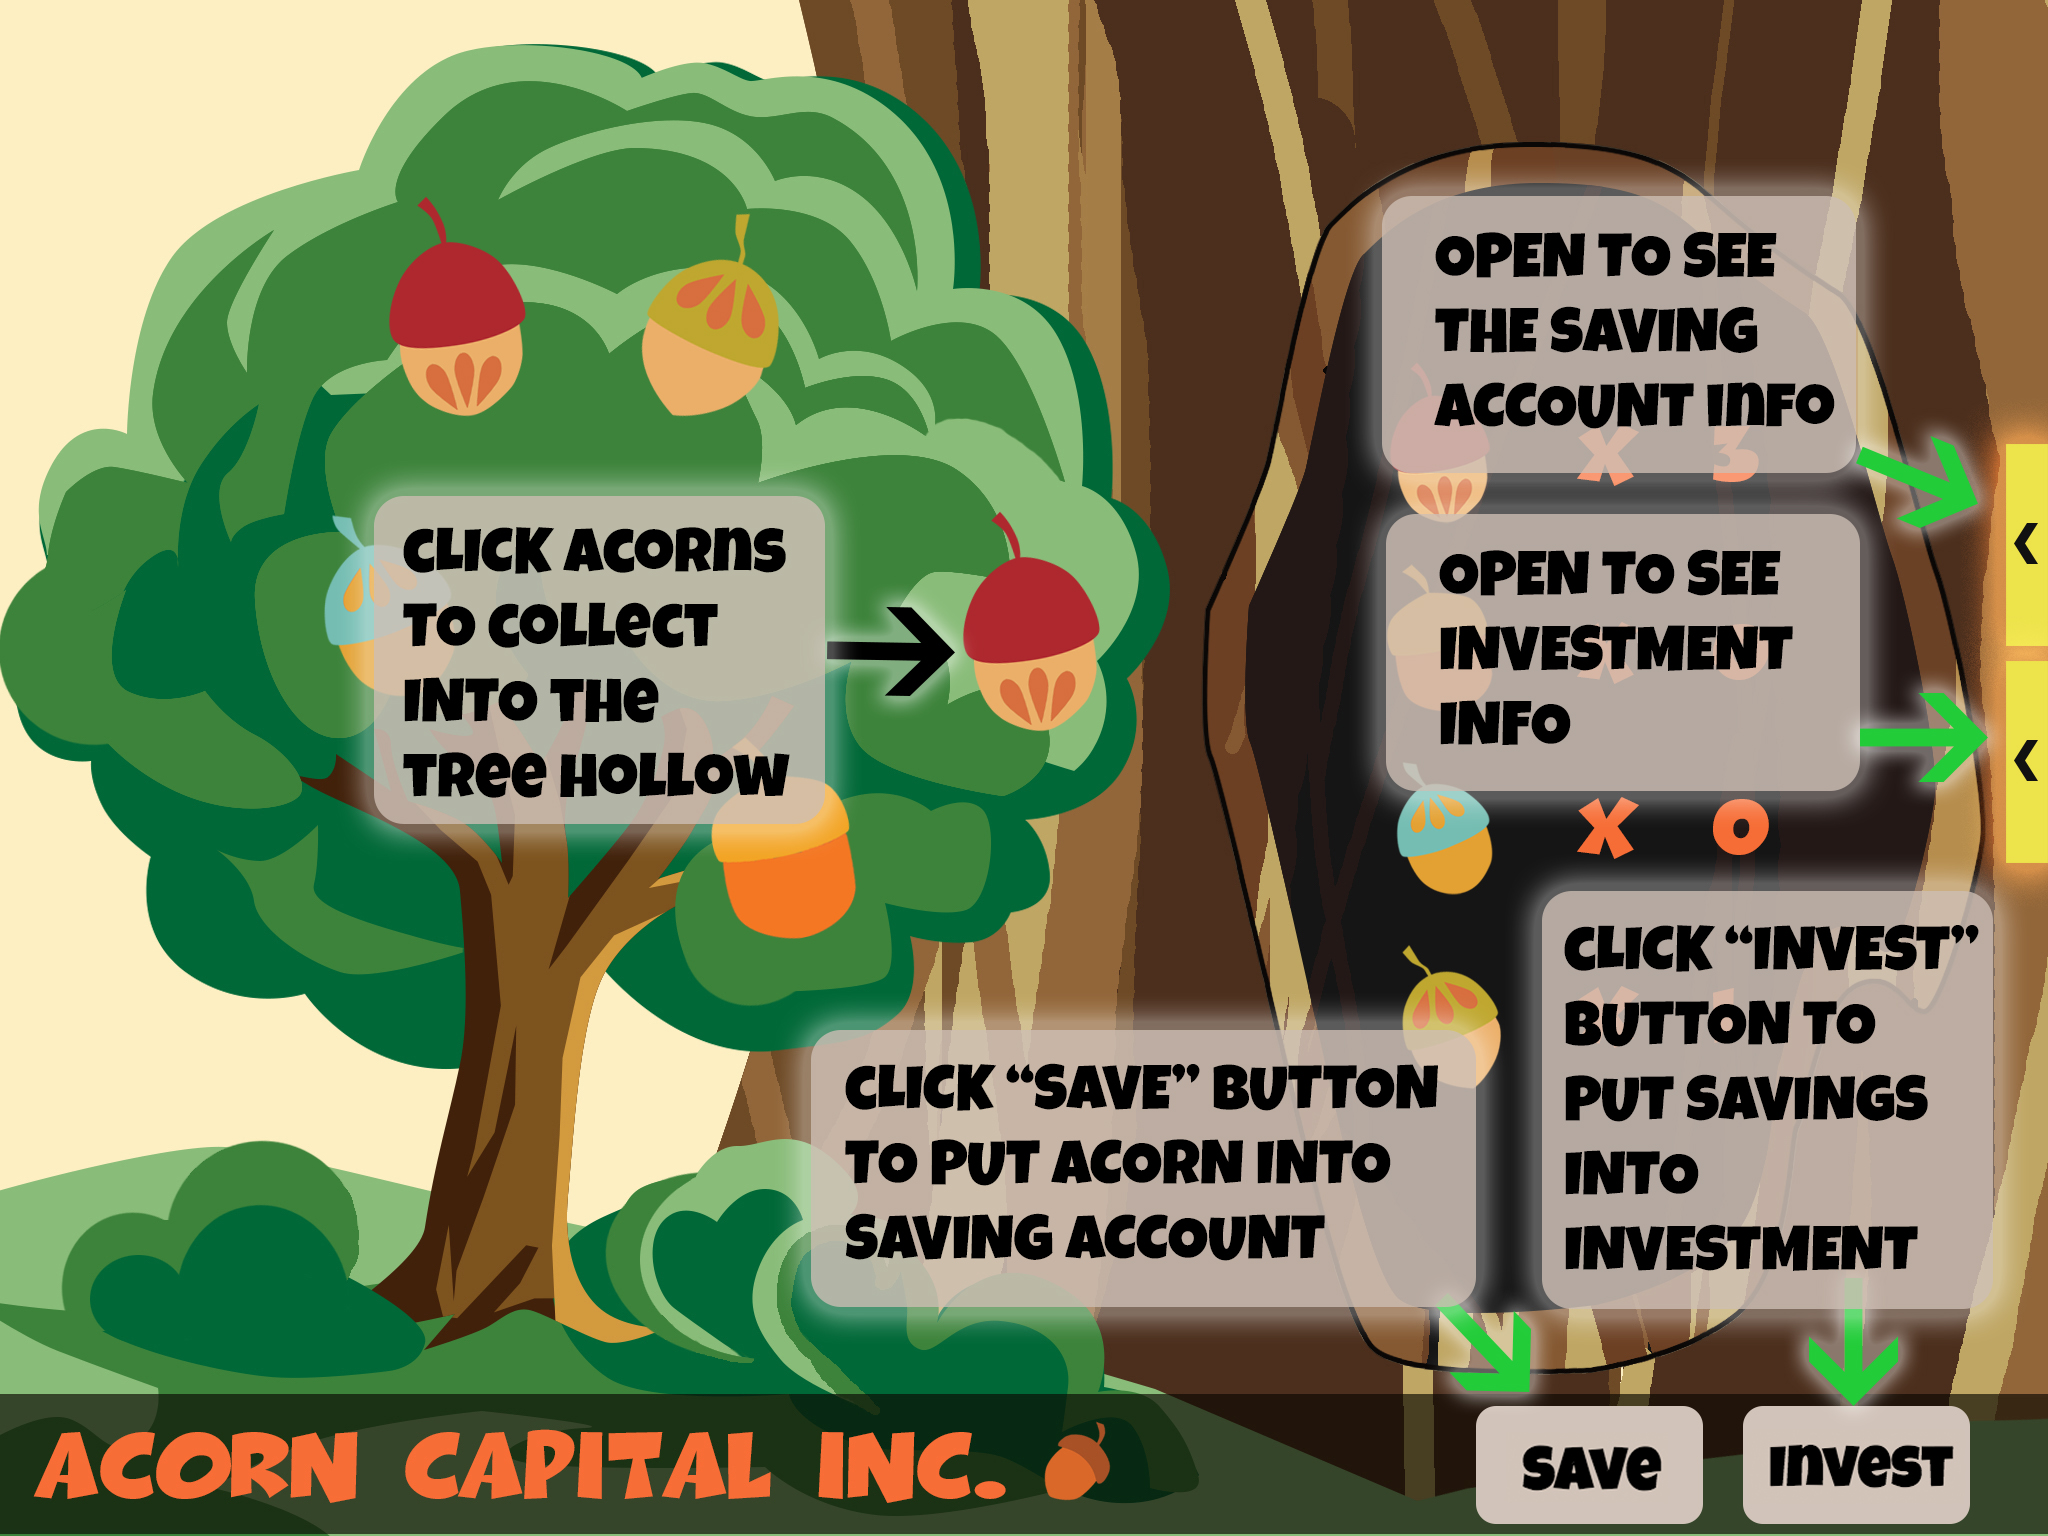
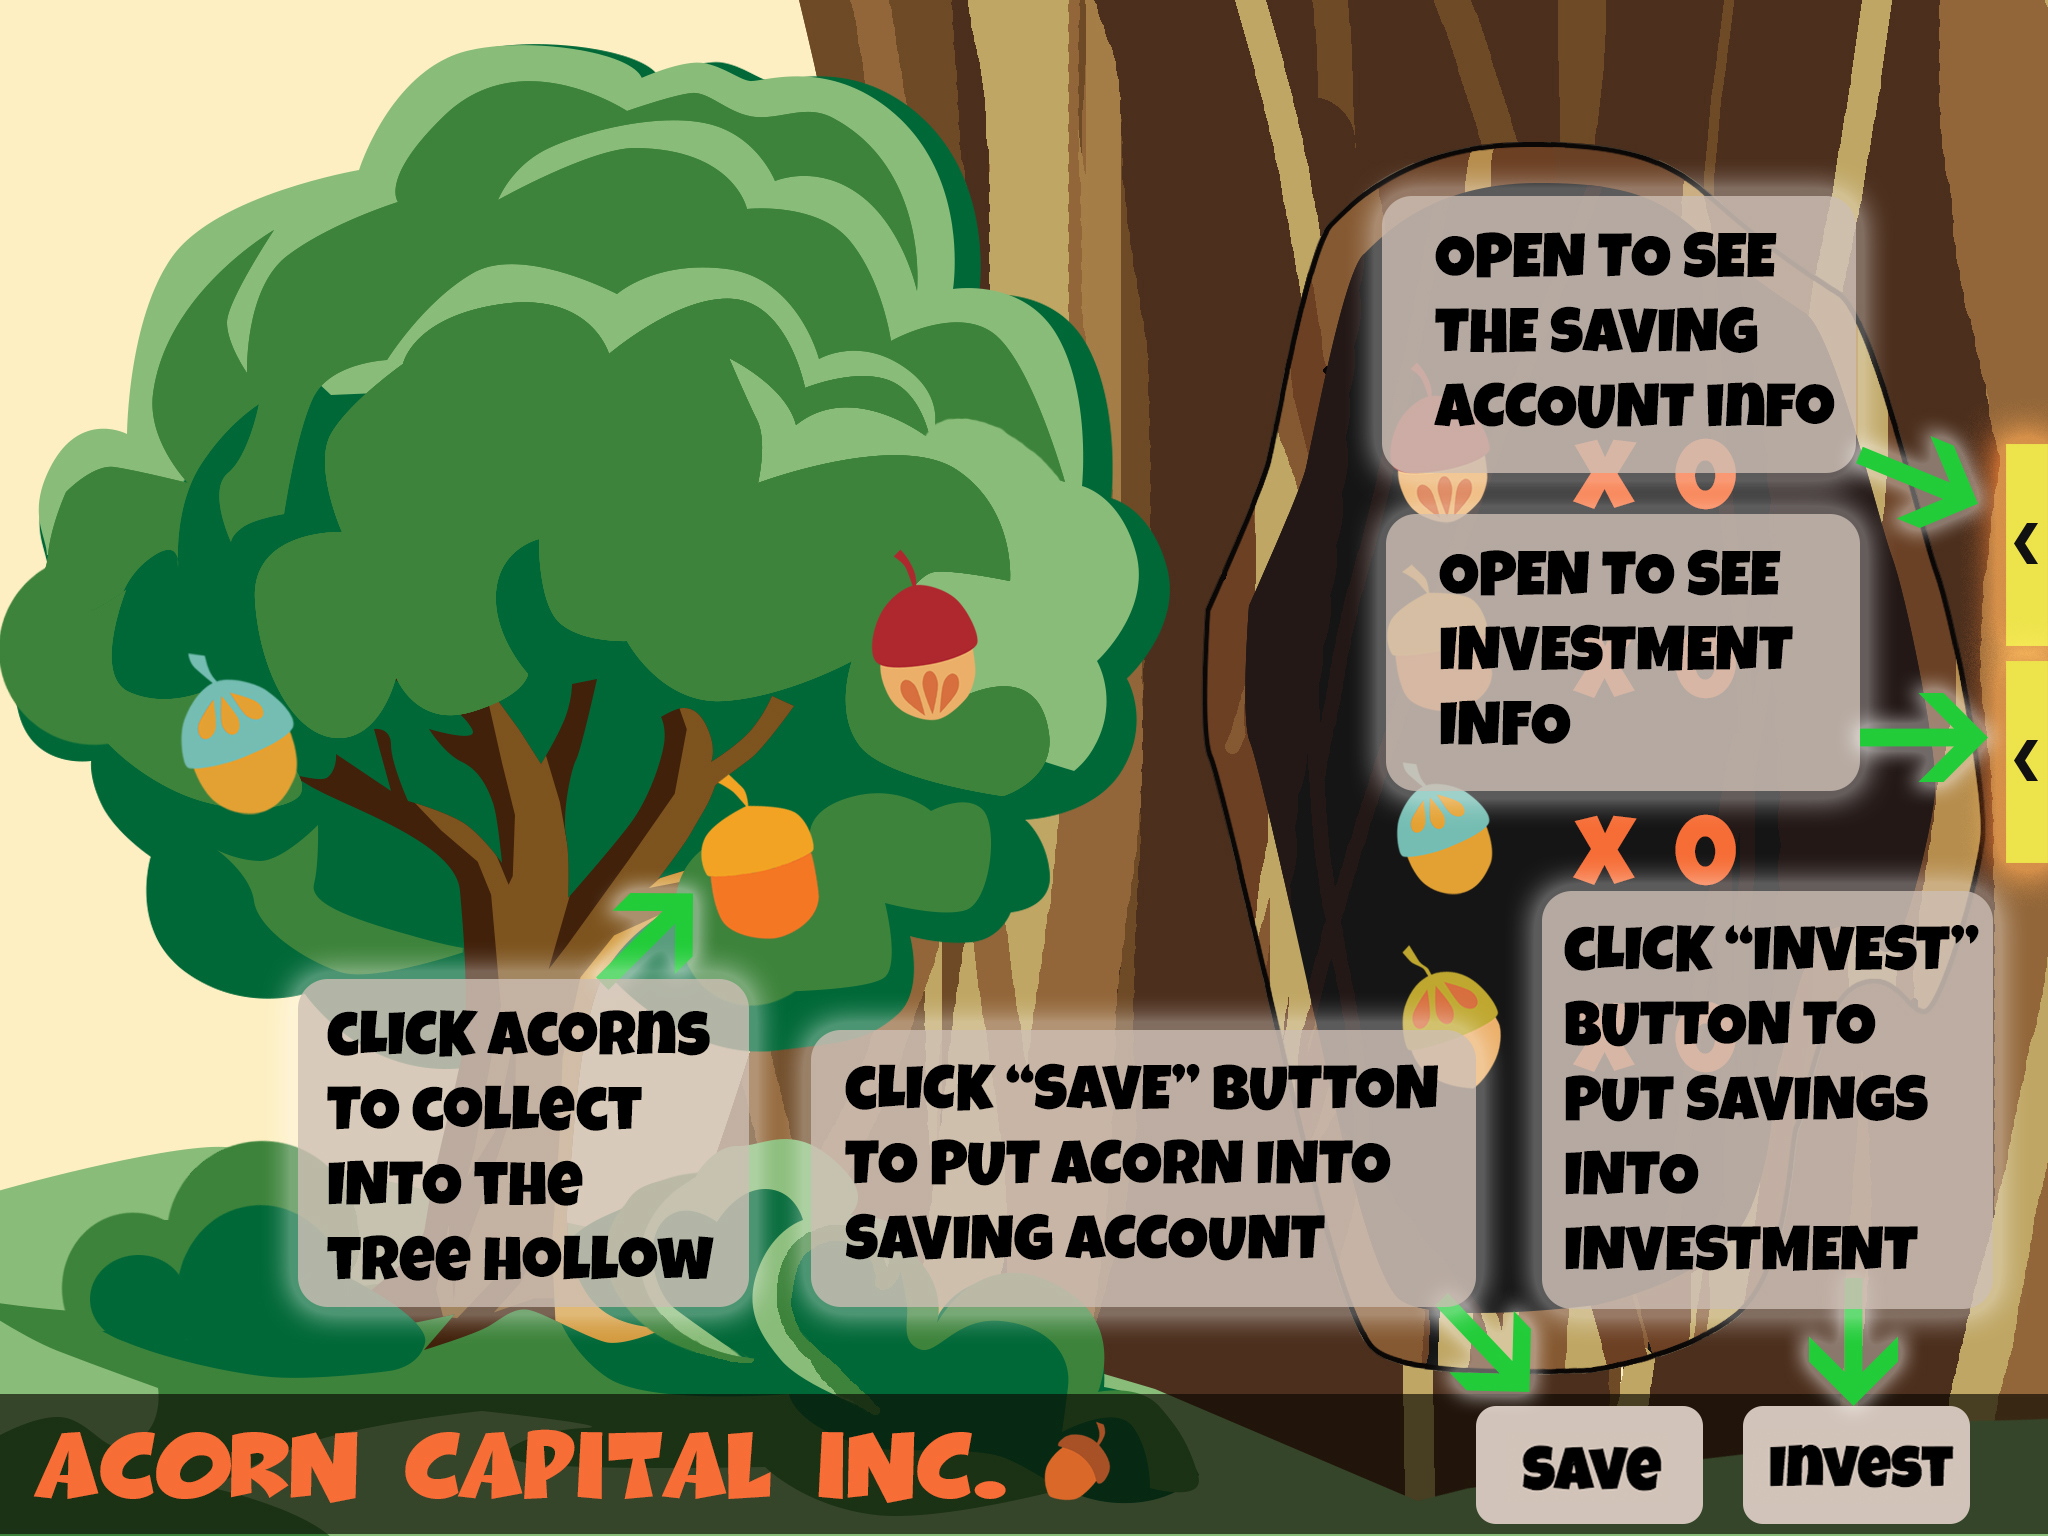
update

diff --git a/game.css b/game.css
@@ -30,6 +30,7 @@
 	top: 28%;
 	width: 35%;
 	left: 16%;
+	z-index: 2;
 }
 #time {
 	font-size: 4vw;
@@ -215,16 +216,16 @@
 #saving_btn {
 	position: absolute;
 	bottom: 1.5%;
-	right: 22%;
+	right: 24%;
 	max-width: 100%;
-	padding: 13px 18px 13px 18px;
+	padding: 1% 1.5% 1% 1.5%
 }
 #invest_btn {
 	position: absolute;
 	bottom: 1.5%;
-	right: 12%;
+	right: 13%;
 	max-width: 100%;
-	padding: 13px 21px 13px 21px;
+	padding: 1% 1.7% 1% 1.7%
 	
 }
 .side_btn {
@@ -245,14 +246,14 @@
 	position: absolute;
 	top: 30%;
 	right: 11.5%;
-	padding: 35px 5px 35px 5px;
+	padding: 2.7% 0.4% 2.7% 0.4%;
 	background: #ede34b;
 }
 #side_bar_invest {
 	position: absolute;
 	top: 44%;
 	right: 11.5%;
-	padding: 35px 5px 35px 5px;
+	padding: 2.7% 0.4% 2.7% 0.4%;
 	background: #ede34b;
 }
 
@@ -284,7 +285,7 @@
 .overlay a {
     padding: 8px;
     text-decoration: none;
-    font-size: 30px;
+    font-size: 3vw;
     color: #f86d36;
     display: block;
     transition: 0.3s;
@@ -304,7 +305,7 @@
     position: absolute;
     top: 10px;
     right: 20px;
-    font-size: 50px;
+    font-size: 3vw;
 }
 
 @media screen and (max-height: 450px) {
@@ -364,7 +365,7 @@
 	font-size: 2.5vw;
 	position: absolute;
 	top: 220%;
-    right: 60%;
+    right: 55%;
 }
 #x_green {
 	font-size: 2.5vw;
@@ -376,7 +377,7 @@
 	font-size: 2.5vw;
 	position: absolute;
 	top: 220%;
-    right: 21%;
+    right: 17%;
 }
 #x_gold {
 	font-size: 2.5vw;
@@ -388,7 +389,7 @@
 	font-size: 2.5vw;
 	position: absolute;
 	top: 310%;
-    right: 60%;
+    right: 55%;
 }
 #x_blue {
 	font-size: 2.5vw;
@@ -400,7 +401,7 @@
 	font-size: 2.5vw;
 	position: absolute;
 	top: 310%;
-    right: 21%;
+    right: 17%;
 }
 #interest_acorn {
 	position: absolute;
@@ -454,7 +455,8 @@
 	position: absolute;
 	font-size: 3vw;
 	top: 500%;
-    right: 26%;
+	width: 80%;
+    right: 14%;
 }
 #invest-status {
 	display: none;
@@ -468,13 +470,13 @@
 #invest_return {
 	position: absolute;
 	font-size: 2.2vw;
-	top: 910%;
+	top: 900%;
     right: 40%;
 }
 #invest_return_num {
 	position: absolute;
 	font-size: 3.2vw;
-	top: 900%;
+	top: 890%;
     right: 21%;
 }
 #invest-outcome {
@@ -497,7 +499,7 @@
 	text-decoration: none;
 	border: transparent;
 	position: absolute;
-	top: 1100%;
+	top: 1000%;
     right: 11%;
 	max-width: 100%;
 	padding: 13px 18px 13px 18px;

diff --git a/storybegin.html b/storybegin.html
@@ -9,6 +9,10 @@
 </head>
 
 <style>
+* {
+	padding: 0;
+	margin: 0;
+}
 .fit { /* set relative picture size */
 	max-width: 77%;
 	max-height: 100%;
@@ -23,27 +27,27 @@
 	font-family: 'Luckiest Guy', cursive;
 	text-shadow: 2px 2px 8px #000000;
 	position: absolute;
-	top: 28%;
-	width: 35%;
-	left: 16%;
+	top: 20%;
+	width: 19%;
+	right: 19%;
 }
 
 #tips {
 	-webkit-border-radius: 18;
 	-moz-border-radius: 18;
 	border-radius: 18px;
-	-webkit-box-shadow: 0px 0px 26px #ede34b;
-	-moz-box-shadow: 0px 0px 26px #ede34b;
-	box-shadow: 0px 0px 26px #ede34b;
+	-webkit-box-shadow: 0px 0px 26px #d8864a;
+	-moz-box-shadow: 0px 0px 26px #d8864a;
+	box-shadow: 0px 0px 26px #d8864a;
 	font-family: 'Luckiest Guy', cursive;
-	color: #ede34b;
-	font-size: 3vw;
-	background: gray;
+	color: #f96d38;
+	font-size: 2vw;
+	background: #af9876;
 	text-decoration: none;
 	border: transparent;
 	position: absolute;
-	top: 65%;
-    right: 58%;
+	top: 70%;
+    right: 23%;
 	max-width: 100%;
 	padding: 13px 18px 13px 18px;
 	z-index: 2;
@@ -58,7 +62,7 @@
 <body>
 	<img class="center fit" id="background_img" src="storybegin.jpg"></img>
 	<a href="hint.html"><p id="hint">In this game, you need to help squirrel "Nibbles" to collect and saving acorns, even investing for higher return to help him get more acorns for better living! Now let's get started.</p></a>
-	<a href="hint.html"><button id="tips">Tips to Play</button></a>
+	<a href="hint.html"><button id="tips">Instruction</button></a>
 </body>
 
 </html>

diff --git a/index.html b/index.html
@@ -9,6 +9,15 @@
 </head>
 
 <style>
+* {
+	padding: 0;
+	margin: 0;
+}
+.container {
+	position: relative;
+    text-align: center;
+    color: white;
+}
 .fit { /* set relative picture size */
 	/*position: absolute;*/
 	top:0%;
@@ -23,20 +32,20 @@
 	-webkit-border-radius: 18;
 	-moz-border-radius: 18;
 	border-radius: 18px;
-	-webkit-box-shadow: 0px 0px 26px #ede34b;
-	-moz-box-shadow: 0px 0px 26px #ede34b;
-	box-shadow: 0px 0px 26px #ede34b;
+	-webkit-box-shadow: 0px 0px 26px #d8864a;
+	-moz-box-shadow: 0px 0px 26px #d8864a;
+	box-shadow: 0px 0px 26px #d8864a;
 	font-family: 'Luckiest Guy', cursive;
-	color: #ede34b;
+	color: #d8864a;
 	font-size: 2.5vw;
-	background: #c69c6d;
+	background: #af9876;
 	text-decoration: none;
 	border: transparent;
 	position: absolute;
-	top: 70%;
-    right: 45%;
+	top: 60%;
+    right: 44%;
 	max-width: 100%;
-	padding: 13px 18px 13px 18px;
+	padding: 13px 30px 13px 30px;
 	z-index: 2;
 	text-shadow: 2px 2px 8px #000000;
 }
@@ -45,9 +54,10 @@
 <script>
 </script>
 <body>
-	<img class="center fit" id="background_img" src="start.jpg"></img>
-	<a href="storybegin.html"><button id="start_btn">Start</button></a>
-
+	<div class="container">
+		<img class="center fit" id="background_img" src="start.jpg"></img>
+		<a href="storybegin.html"><button id="start_btn">Start</button></a>
+	</div>
 </body>
 
 </html>

diff --git a/timeout.html b/timeout.html
@@ -9,6 +9,10 @@
 </head>
 
 <style>
+* {
+	padding: 0;
+	margin: 0;
+}
 .fit { /* set relative picture size */
 	max-width: 77%;
 	max-height: 100%;
@@ -18,14 +22,14 @@
 	margin: auto;
 }
 #hint {
-	font-size: 3vw;
+	font-size: 2.5vw;
 	color: #ede34b;
 	font-family: 'Luckiest Guy', cursive;
 	text-shadow: 2px 2px 8px #000000;
 	position: absolute;
-	top: 28%;
-	width: 35%;
-	left: 16%;
+	top: 26%;
+	width: 30%;
+	left: 19%;
 }
 #playbtn {
 	-webkit-border-radius: 18;
@@ -35,14 +39,14 @@
 	-moz-box-shadow: 0px 0px 26px #ede34b;
 	box-shadow: 0px 0px 26px #ede34b;
 	font-family: 'Luckiest Guy', cursive;
-	color: #ede34b;
+	color: #f96d38;
 	font-size: 3vw;
-	background: gray;
+	background: #af9876;
 	text-decoration: none;
 	border: transparent;
 	position: absolute;
-	top: 65%;
-    right: 63%;
+	top: 52%;
+    right: 62%;
 	max-width: 100%;
 	padding: 13px 18px 13px 18px;
 	z-index: 2;
@@ -56,7 +60,7 @@
 </script>
 <body>
 	<img class="center fit" id="background_img" src="timeout.jpg"></img>
-	<a href="game.html"><p id="hint">Now you have 5 minute to help Nibbles to get acorns!</p></a>
+	<a href="game.html"><p id="hint">Now you have 5 minutes to help Nibbles to get acorns!</p></a>
 
 	<a href="game.html"><button id="playbtn">Play</button></a>
 </body>

diff --git a/hint.html b/hint.html
@@ -9,6 +9,10 @@
 </head>
 
 <style>
+* {
+	padding: 0;
+	margin: 0;
+}
 .fit { /* set relative picture size */
 	max-width: 77%;
 	max-height: 100%;
@@ -23,9 +27,9 @@
 	font-family: 'Luckiest Guy', cursive;
 	text-shadow: 2px 2px 8px #000000;
 	position: absolute;
-	top: 12%;
+	top: 16%;
 	width: 35%;
-	left: 17%;
+	left: 22%;
 }
 #playbtn {
 	-webkit-border-radius: 18;
@@ -35,14 +39,14 @@
 	-moz-box-shadow: 0px 0px 26px #ede34b;
 	box-shadow: 0px 0px 26px #ede34b;
 	font-family: 'Luckiest Guy', cursive;
-	color: #ede34b;
-	font-size: 3vw;
-	background: gray;
+	color: #f96d38;
+	font-size: 2.5vw;
+	background: #af9876;
 	text-decoration: none;
 	border: transparent;
 	position: absolute;
-	top: 70%;
-    right: 65%;
+	top: 36%;
+    right: 59%;
 	max-width: 100%;
 	padding: 13px 18px 13px 18px;
 	text-shadow: 2px 2px 8px #000000;
@@ -56,7 +60,7 @@
 </script>
 <body>
 	<img class="center fit" id="background_img" src="hint.jpg"></img>
-	<a href="timeout.html"><p id="hint">Tips to Play:</p></a>
+	<a href="timeout.html"><p id="hint">Tips to Play</p></a>
 
 	<a href="timeout.html"><button id="playbtn">Let's Play</button></a>
 </body>

diff --git a/game.js b/game.js
@@ -21,14 +21,15 @@ function startTimer(duration, display) {
 }
 
 function click_hint() {
-	// document.getElementById("clickhint").innerHTML="";
-	$("#clickhint").html("");
+	if ($("#clickhint").html() != "") {
+        $("#clickhint").html("");
     
-    var twoMinutes = 60 * 5,
-        display = document.querySelector('#time');
-    startTimer(twoMinutes, display);
+        var twoMinutes = 60 * 5,
+            display = document.querySelector('#time');
+        startTimer(twoMinutes, display);
     
-	repeat_gen_acorn();
+        repeat_gen_acorn();
+    }
 }
 function repeat_gen_acorn() {
   	var nIntervId = setInterval(generate_acorn, 3000);

diff --git a/game.html b/game.html
@@ -13,7 +13,7 @@
 
 <body onload="repeat_calculate_interest();">
 	<div class="container">
-		<img class="center fit" id="background_img" src=" bkgd.jpeg" onclick="click_hint();"></img>
+		<img class="center fit" id="background_img" src=" backg.jpg" onclick="click_hint();"></img>
 		<div onclick="click_hint();"><p class="font_hint mid-right-hint" id="clickhint">Click Anywhere to Start! Click Acorn to Collect Into Hollow!</p></div>
 		<div><span class="font" id="time">05:00</span></div>
 		
